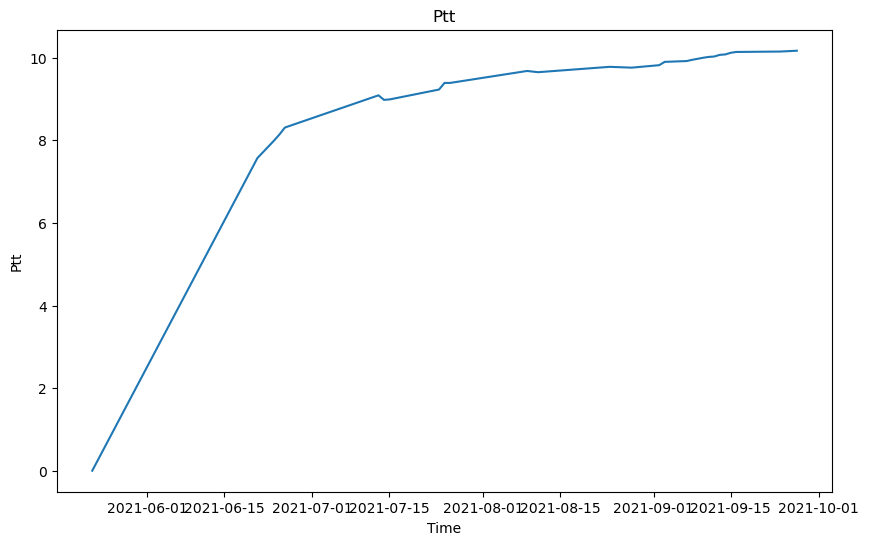
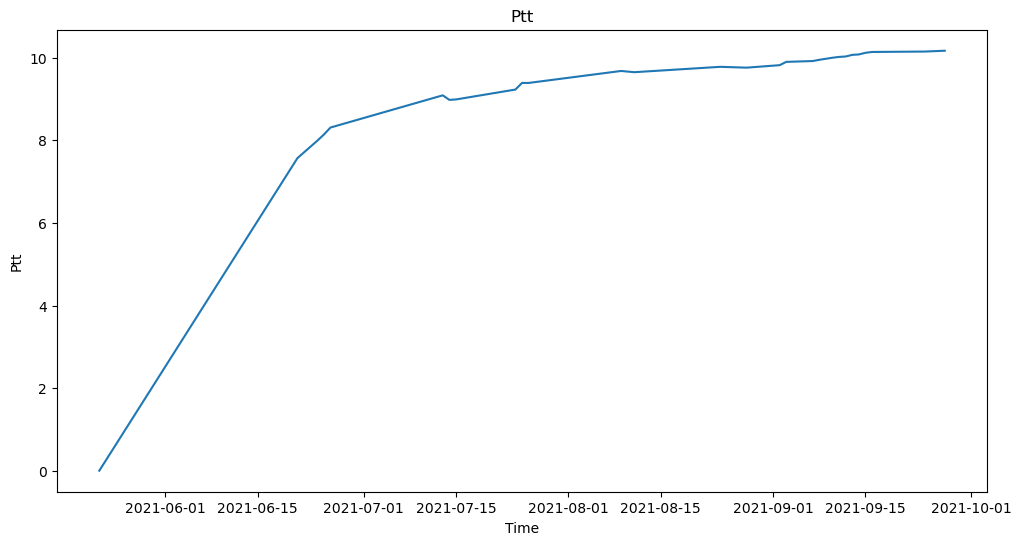
CHANGE picture length from 10 to 12

diff --git a/ptt_plot.py b/ptt_plot.py
@@ -12,7 +12,7 @@ for line in ptt_lines:
 
 x_date_format = [datetime.strptime(d, '%Y/%m/%d').date() for d in x_time]
 
-plt.figure(figsize=(10, 6))
+plt.figure(figsize=(12, 6))
 
 plt.title('Ptt')
 plt.plot(x_date_format, y_ptt, '-')
